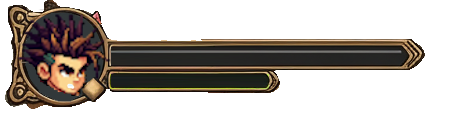
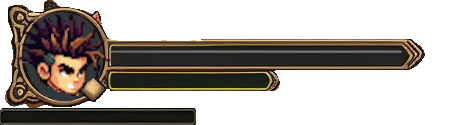
.

diff --git a/core/src/main/java/com/mygdx/game/images/PowerBar.java b/core/src/main/java/com/mygdx/game/images/PowerBar.java
@@ -4,22 +4,30 @@ import com.badlogic.gdx.Gdx;
 import com.badlogic.gdx.graphics.OrthographicCamera;
 import com.badlogic.gdx.graphics.Texture;
 import com.badlogic.gdx.graphics.g2d.BitmapFont;
+import com.badlogic.gdx.graphics.g2d.Sprite;
 import com.badlogic.gdx.graphics.g2d.SpriteBatch;
 import com.badlogic.gdx.graphics.g2d.TextureRegion;
+import com.badlogic.gdx.math.Vector2;
 import com.badlogic.gdx.math.Vector3;
+import com.badlogic.gdx.physics.box2d.Body;
 import com.mygdx.game.entities.Boy;
 
 import java.io.Serializable;
+
+import static com.mygdx.game.screens.levels.Level_Manager.spriteBatch;
 
 public class PowerBar implements Serializable{
 
     public static final float WIDTH = Images.hp.getWidth(), HEIGHT = Images.hp.getHeight();
     public static final float WIDTH2 = Images.sp.getWidth(), HEIGHT2 = Images.sp.getHeight();
 
-    public static float hp_0 = WIDTH/2f, sp_0 = WIDTH2/2f;
-
+    public static final float WIDTH3 = Images.fuel.getWidth(), HEIGHT3 = Images.fuel.getHeight();
+    public static final Animator HIT = new Animator(4,4,16,128,128,"fire/Hit.png");
+    public static float hp_0 = WIDTH/2f, sp_0 = WIDTH2/2f, maxHP = hp_0, fuel = WIDTH3;
+    public static boolean hit;
     private Vector3 position = new Vector3();
 
+    private static float x, y;
     public PowerBar(){
         Texture t = new Texture(Gdx.files.internal("Font.png"));
         Images.font = new BitmapFont(Gdx.files.internal("Font.fnt"), new TextureRegion(t));
@@ -32,16 +40,53 @@ public class PowerBar implements Serializable{
         if (boy != null && boy.getRifle() != null)
             Images.font.draw(s, boy.getRifle().stringNumbBullets, -500 + position.x, position.y - 450);
         s.draw(Images.bar, -900 + position.x, position.y - 450);
-        hp_0 = Math.min(Math.max(Math.max(0, hp_0), hp_0), WIDTH);
-        if (hp_0 > WIDTH)
-            hp_0 = WIDTH;
+        hp_0 = Math.min(Math.max(Math.max(0, hp_0), hp_0), maxHP);
+        if (maxHP > WIDTH)
+            maxHP = WIDTH;
+        if (hp_0 > maxHP)
+            hp_0 = maxHP;
+        if (fuel > WIDTH3)
+            fuel = WIDTH3;
         s.draw(Images.hp, -900 + position.x + 110, position.y - 450, hp_0, 124);
         s.draw(Images.sp, -900 + position.x + 110, position.y - 450, Math.min(sp_0, WIDTH2), 124);
+        s.draw(Images.fuel, -900 + position.x, position.y - 450 + 3f, fuel, Images.fuel.getHeight());
         if (position.y > 5400f)
             position.y = 5400f;
         if (position.x < 970f)
             position.x = 970f;
 
+        hit(boy.getBody(), s);
+    }
+    public static void hit(Body body){
+        if (body != null && hit) {
+
+            Sprite sprite = new Sprite(HIT.currentSpriteFrame(false, false));
+            sprite.setPosition(body.getPosition().x + 32f / 2f, body.getPosition().y);
+            sprite.setSize(96, 128);
+            if (spriteBatch != null) {
+                spriteBatch.begin();
+                sprite.draw(spriteBatch);
+                spriteBatch.end();
+            }
+            if (HIT.ani_finished()) {
+                HIT.resetStateTime();
+                hit = false;
+            }
+        }
     }
 
+    public static void hit(Body body, SpriteBatch spriteBatch){
+        if (body != null && hit) {
+
+            Sprite sprite = new Sprite(HIT.currentSpriteFrame(false, false));
+            sprite.setPosition(body.getPosition().x + 32f / 2f, body.getPosition().y);
+            sprite.setSize(96, 128);
+            sprite.draw(spriteBatch);
+
+            if (HIT.ani_finished()) {
+                HIT.resetStateTime();
+                hit = false;
+            }
+        }
+    }
 }

diff --git a/core/src/main/java/com/mygdx/game/entities/Boy.java b/core/src/main/java/com/mygdx/game/entities/Boy.java
@@ -18,15 +18,17 @@ import com.mygdx.game.items.*;
 import com.mygdx.game.items.inventory.ItemToBeDrawn;
 import com.mygdx.game.items.minis.Minis;
 import com.mygdx.game.manager.StateManager;
+import com.mygdx.game.screens.Stats;
 import com.mygdx.game.sfx.Sounds;
 import com.mygdx.game.system.ScreenshotHelper;
 import lombok.Getter;
 import lombok.Setter;
-import org.jetbrains.annotations.Contract;
+
 
 
 import static com.badlogic.gdx.Gdx.input;
 import static com.mygdx.game.images.Images.*;
+import static com.mygdx.game.screens.Stats.WSD;
 import static com.mygdx.game.screens.levels.Level.items;
 import static com.mygdx.game.screens.levels.Level_Manager.spriteBatch;
 import static com.mygdx.game.sfx.Sounds.*;
@@ -316,13 +318,13 @@ public class Boy extends Objeto {
     }
 
     private void fly() {
-        if (PowerBar.sp_0 > 10 && input.isKeyPressed(Input.Keys.SPACE) && use_jetPack){
+        if (PowerBar.fuel > 10 && input.isKeyPressed(Input.Keys.SPACE) && use_jetPack){
             body.setLinearVelocity(body.getLinearVelocity().x, body.getLinearVelocity().y + 1);
         }
-        if (use_jetPack && PowerBar.sp_0 > 0) {
+        if (use_jetPack && PowerBar.fuel > 0) {
             chargingSPTimer3 += Gdx.graphics.getDeltaTime();
-            if (chargingSPTimer3 > 0.2f) {
-                PowerBar.sp_0--;
+            if (chargingSPTimer3 > 0.05f * Stats.stats_values[WSD]) {
+                PowerBar.fuel--;
                 chargingSPTimer3 = 0;
             }
         }
@@ -604,7 +606,6 @@ public class Boy extends Objeto {
         viewport.unproject(worldCoordinates);
         worldX = worldCoordinates.x;
         worldY = worldCoordinates.y;
-
     }
 
     public void touchDown(int screenX, int screenY, int pointer, int button){
@@ -724,7 +725,6 @@ public class Boy extends Objeto {
         return new Rectangle(body.getPosition().x + width/2f - 30f, body.getPosition().y + height/2f - 50f, DIMENSIONS_FOR_SHAPE.x, DIMENSIONS_FOR_SHAPE.y);
     }
 
-    @Contract
     public void takeItem(Item item){
         if (item instanceof Portal)
             return;
@@ -774,6 +774,7 @@ public class Boy extends Objeto {
             PowerBar.hp_0 -= 10;
             setBeenHit(true);
             Sounds.HURT.play();
+            PowerBar.hit = true;
         }
     }
 

diff --git a/core/src/main/java/com/mygdx/game/screens/levels/Level4.java b/core/src/main/java/com/mygdx/game/screens/levels/Level4.java
@@ -3,6 +3,7 @@ package com.mygdx.game.screens.levels;
 import com.badlogic.gdx.graphics.OrthographicCamera;
 import com.badlogic.gdx.graphics.g2d.SpriteBatch;
 import com.badlogic.gdx.math.Vector2;
+import com.badlogic.gdx.physics.box2d.Body;
 import com.badlogic.gdx.physics.box2d.Contact;
 import com.mygdx.game.entities.Boy;
 import com.mygdx.game.entities.Monster1;
@@ -10,7 +11,9 @@ import com.mygdx.game.entities.Mouse;
 import com.mygdx.game.entities.Objeto;
 import com.mygdx.game.images.Background;
 import com.mygdx.game.items.*;
+import com.mygdx.game.items.minis.Minis;
 
+import static com.mygdx.game.entities.Boy.minis;
 import static com.mygdx.game.images.Images.tile;
 import static com.mygdx.game.items.Rope.NUM_ROPES;
 import static com.mygdx.game.screens.levels.Level_Manager.*;
@@ -150,6 +153,24 @@ public class Level4 extends Level{
     @Override
     public void beginContact(Contact contact) {
         super.beginContact(contact);
+
+        if (contact.getFixtureA() == null || contact.getFixtureB() == null)
+            return;
+        if (contact.getFixtureA().getBody() == null || contact.getFixtureB().getBody() == null)
+            return;
+        if (contact.getFixtureA().getBody().getUserData() == null || contact.getFixtureB().getBody().getUserData() == null)
+            return;
+
+        Body body1 = contact.getFixtureA().getBody();
+        Body body2 = contact.getFixtureB().getBody();
+
+        if (body1 == null || body2 == null)
+            return;
+
+
+        for (Minis m : minis){
+            m.beginContact(body1,body2);
+        }
     }
 
 

diff --git a/core/src/main/java/com/mygdx/game/screens/Stats.java b/core/src/main/java/com/mygdx/game/screens/Stats.java
@@ -8,6 +8,7 @@ import com.badlogic.gdx.graphics.g2d.BitmapFont;
 import com.badlogic.gdx.graphics.g2d.SpriteBatch;
 import com.badlogic.gdx.graphics.g2d.TextureRegion;
 import com.badlogic.gdx.math.Rectangle;
+import com.mygdx.game.images.Images;
 import com.mygdx.game.images.PowerBar;
 import com.mygdx.game.manager.State;
 import com.mygdx.game.manager.StateManager;
@@ -32,6 +33,7 @@ public class Stats extends State {
     public static int[] stats_values = new int[6];
 
     public static int points = 10, exp_Points = 0, base_level = 1;
+    public static final int DEX = 0, VIT = 1, CRIT = 2, STR = 3, AGI = 4, WSD = 5;
 
     public static final String[] VALUES = new String[7];
 
@@ -87,7 +89,8 @@ public class Stats extends State {
     public void update() {
         //TODO: analizar qual melhor maneira para atualizar valor de hp devido o aumento em vitalidade
         // e como desenhar na tela em tempo que abre o stage Stats
-        PowerBar.hp_0 = 150f + (5f * stats_values[1]);
+
+        PowerBar.maxHP = 150f + (6f * stats_values[VIT]);
     }
 
     @Override

diff --git a/core/src/main/java/com/mygdx/game/entities/Objeto.java b/core/src/main/java/com/mygdx/game/entities/Objeto.java
@@ -15,6 +15,7 @@ import java.io.Serializable;
 import java.lang.management.GarbageCollectorMXBean;
 import java.util.Random;
 
+import static com.mygdx.game.images.PowerBar.hit;
 import static com.mygdx.game.screens.levels.Level_Manager.world;
 
 public abstract class Objeto implements ObjetoFields, Serializable{
@@ -175,6 +176,7 @@ public abstract class Objeto implements ObjetoFields, Serializable{
     }
 
     public void update(){
+        hit(body);
         if (!isVisible() && body != null) {
             body.setTransform(10_000 + new Random().nextFloat(10000), 10_000 + new Random().nextFloat(10000), 0);
 //            world.destroyBody(body);
@@ -192,6 +194,8 @@ public abstract class Objeto implements ObjetoFields, Serializable{
 
     public void beenHit(){
         beenHit = true;
+        hit = true;
+
     }
 
     public void beenHit(Body body1, Body body2) {

diff --git a/core/src/main/java/com/mygdx/game/images/Images.java b/core/src/main/java/com/mygdx/game/images/Images.java
@@ -67,6 +67,7 @@ public class Images implements Serializable {
     public static TreeMap<String, Sprite> itemsDraw_minis = new TreeMap<>();
     public static Sprite spaceItem;
     public static Sprite stats;
+    public static Sprite fuel;
 
     public Images() {
         mortalSprite = new Sprite(new Texture(Gdx.files.internal("boy/Mortal.png")));
@@ -103,6 +104,7 @@ public class Images implements Serializable {
         } catch(Exception e){
             e.printStackTrace();
         }
+        fuel = new Sprite(new Texture(Gdx.files.internal("boy/FUEL.png")));
         jack = new Texture(Gdx.files.internal("Jack/Jack.png"));
         girl = new Texture(Gdx.files.internal("Girl/Girl.png"));
         shoot = new Sprite(new Texture(Gdx.files.internal("boy/Shoot.png")));

diff --git a/core/src/main/java/com/mygdx/game/screens/levels/Level2.java b/core/src/main/java/com/mygdx/game/screens/levels/Level2.java
@@ -7,9 +7,11 @@ import com.mygdx.game.entities.*;
 import com.mygdx.game.items.Item;
 import com.mygdx.game.items.NinjaRope;
 import com.mygdx.game.items.Portal;
+import com.mygdx.game.items.minis.Minis;
 
 import java.util.ArrayList;
 
+import static com.mygdx.game.entities.Boy.minis;
 import static com.mygdx.game.images.Images.tile;
 import static com.mygdx.game.screens.levels.Level_Manager.*;
 import static com.mygdx.game.screens.levels.Level_Manager.camera;
@@ -112,6 +114,10 @@ public class Level2 extends Level{
                 ((Portal) o).beginContact(contact);
             if (o instanceof Boy)
                 ((Boy) o).beginContact(contact);
+        }
+
+        for (Minis m : minis){
+            m.beginContact(body1,body2);
         }
     }
 

diff --git a/core/src/main/java/com/mygdx/game/screens/levels/Level3.java b/core/src/main/java/com/mygdx/game/screens/levels/Level3.java
@@ -6,7 +6,9 @@ import com.badlogic.gdx.physics.box2d.Contact;
 import com.mygdx.game.entities.*;
 import com.mygdx.game.items.*;
 import com.mygdx.game.items.fans.Fan;
+import com.mygdx.game.items.minis.Minis;
 
+import static com.mygdx.game.entities.Boy.minis;
 import static com.mygdx.game.images.Images.tile;
 import static com.mygdx.game.items.Rope.NUM_ROPES;
 import static com.mygdx.game.screens.levels.Level_Manager.*;
@@ -212,6 +214,10 @@ public class Level3 extends Level{
                 o.beenHit(body1, body2);
             if (o instanceof Portal)
                 ((Portal) o).beginContact(contact);
+        }
+
+        for (Minis m : minis){
+            m.beginContact(body1,body2);
         }
     }
 

diff --git a/core/src/main/java/com/mygdx/game/items/minis/Minis.java b/core/src/main/java/com/mygdx/game/items/minis/Minis.java
@@ -126,7 +126,7 @@ public class Minis extends Objeto{
             if (name.equals("Red Potion"))
                 PowerBar.hp_0 += 10;
             if (name.equals("Green Potion"))
-                PowerBar.hp_0 += 0;
+                PowerBar.fuel += 30;
         }
     }
 
